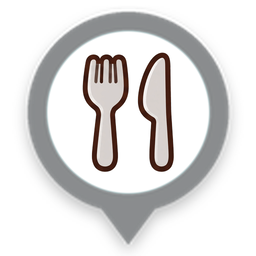
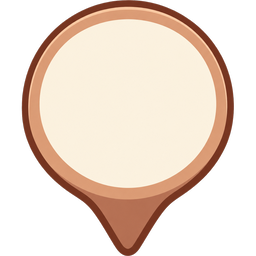
map: cluster tap flies there and zooms until it dissolves; 3 zoom stages (140px/70px/all from 17.7); new cluster pin art with centered number (owner)
Claude-Session: https://claude.ai/code/session_01Bp5TxBe5ASoz3kzH4S8qad

diff --git a/src/shops/infra/shopPins.ts b/src/shops/infra/shopPins.ts
@@ -1,9 +1,9 @@
 // 地図のピン（1 つの symbol レイヤー。MapLibre が GPU で描く）。2026-11-16 オーナー「整理して修正して」で 1 つにまとめた:
 //  - 1 軒のお店（晴れた所・霧の中の近い店）・まとめのピン（引いたとき）・気配のピン（？）を同じ層に入れ、
 //    画面の下（手前）のピンほど前に描く（奥の気配が手前に乗らない）。層は自分のキャラより上（キャラがピンを踏まない）。
-//  - 引き（倍率 17 未満）は、晴れた所のお店（ビル・施設の中のお店も 1 軒ずつ）を supercluster でまとめる（2 軒から・140px）。
-//    寄り（17 以上）は 1 軒ずつ（ビルの中のお店は buildingPins）。霧の中の近い店と気配はいつも単独。
-//  - まとめのピンを押すと、カメラは自分を追いかけたまま倍率 17 まで寄る（中心は動かさない＝引き戻されない）。
+//  - 倍率 17.7 より引いたら、晴れた所のお店（ビル・施設の中のお店も 1 軒ずつ）を supercluster でまとめる（2 軒から。
+//    16〜17 は 140px、17〜17.7 は 70px）。17.7 から 1 軒ずつ（ビルの中のお店は buildingPins）。霧の中の近い店と気配はいつも単独。
+//  - まとめのピンを押すと、その場所へカメラを寄せ、まとめがなくなる倍率（17.7）まで寄る（カメラの寄せは MapView）。
 // 画像の登録・GeoJSON source の更新・レイヤー追加・タップの当たり判定をここに閉じこめる。
 import type { GeoJSONSource, Map as MapLibreMap } from 'maplibre-gl'
 import type { LatLng } from '../../map/domain/geo.ts'
@@ -12,7 +12,7 @@ import type { PointFeature } from 'supercluster'
 import mysteryPin from '../../assets/pins/mystery.png'
 import { pinFeatures } from '../domain/pinFeatures.ts'
 import type { PinFeature } from '../domain/pinFeatures.ts'
-import { CLUSTER_MIN_POINTS, CLUSTER_RADIUS_PX, CLUSTER_UNTIL_ZOOM, clusterScale } from '../domain/cluster.ts'
+import { CLUSTER_MIN_POINTS, clusterScale, clusterStage } from '../domain/cluster.ts'
 import type { ClusterFeature } from '../domain/cluster.ts'
 import { createClusterImages } from './shopClusters.ts'
 import { LIFT_TIERS } from '../domain/pinLift.ts'
@@ -105,12 +105,14 @@ export function pinLayerFeatures(
   bounce: ReadonlyMap<string, number> = new Map(),
 ): Out[] {
   const out: Out[] = []
-  if (zoom < CLUSTER_UNTIL_ZOOM) {
-    // 引き: 晴れた所のお店をまとめる（ビルの中のお店も 1 軒ずつ入っている）。霧の中の近い店は単独
+  const stage = clusterStage(zoom)
+  if (stage) {
+    // 引き: 晴れた所のお店をまとめる（ビルの中のお店も 1 軒ずつ入っている）。霧の中の近い店は単独。
+    // まとめ方は段ごと（倍率 16 の段は 140px、17 の段は 70px）
     const index = new Supercluster<ClusterFeature['properties'], { n: number; done: number; lt: number }>({
-      radius: CLUSTER_RADIUS_PX,
+      radius: stage.radiusPx,
       extent: 512, // MapLibre の 512px のタイルと同じ（radius が画面の px になる）
-      maxZoom: CLUSTER_UNTIL_ZOOM - 1,
+      maxZoom: stage.zoom,
       minPoints: CLUSTER_MIN_POINTS,
       map: (p) => ({ n: p.n, done: p.done, lt: p.lt }),
       reduce: (acc, p) => {
@@ -120,7 +122,7 @@ export function pinLayerFeatures(
       },
     })
     index.load(clusterInput as unknown as PointFeature<ClusterFeature['properties']>[])
-    for (const f of index.getClusters([-180, -85, 180, 85], Math.max(0, Math.floor(Math.min(zoom, CLUSTER_UNTIL_ZOOM - 1))))) {
+    for (const f of index.getClusters([-180, -85, 180, 85], stage.zoom)) {
       const [lng, lat] = f.geometry.coordinates
       const p = f.properties as Record<string, unknown>
       if (p.cluster) out.push(point(lng, lat, { t: 'cluster', id: `cluster:${p.cluster_id}`, n: p.n, lt: p.lt }))
@@ -144,7 +146,8 @@ export function createShopPins(map: MapLibreMap) {
   let clusterInput: readonly ClusterFeature[] = []
   let hints: readonly HintPin[] = []
   const bounce = new Map<string, number>()
-  let far = map.getZoom() < CLUSTER_UNTIL_ZOOM
+  const stageKey = () => clusterStage(map.getZoom())?.zoom ?? 'all'
+  let shownStage = stageKey()
 
   const data = (): GeoJSON.FeatureCollection => ({
     type: 'FeatureCollection',
@@ -154,11 +157,11 @@ export function createShopPins(map: MapLibreMap) {
     if (attached) (map.getSource(PIN_SOURCE) as GeoJSONSource | undefined)?.setData(data())
   }
   const clusterImages = createClusterImages(map, push)
-  // 引き・寄りをまたいだときだけ作り直す（まとめの計算は倍率 16 の 1 段だけなので、またがなければ同じ）
+  // 段（16・17・全部）をまたいだときだけ作り直す（まとめは段ごとに 1 つの整数の倍率で計算するので、またがなければ同じ）
   const onZoom = () => {
-    const next = map.getZoom() < CLUSTER_UNTIL_ZOOM
-    if (next === far) return
-    far = next
+    const next = stageKey()
+    if (next === shownStage) return
+    shownStage = next
     push()
   }
 
@@ -251,7 +254,8 @@ export function createShopPins(map: MapLibreMap) {
       moving = next
       applyVisibility()
     },
-    // 押された点のピン: お店なら店の id、気配なら ['hint:<id>']、まとめならその場で倍率 17 まで寄って []
+    // 押された点のピン: お店なら店の id、気配なら ['hint:<id>']、まとめなら ['cluster:<経度>,<緯度>']
+    // （まとめの場所へのカメラの寄せは地図の画面がする。自分を追いかけるのを止めてから動かさないと引き戻されるため）
     pick(point: { x: number; y: number }): string[] | null {
       if (!attached || hidden) return null
       const box: [[number, number], [number, number]] = [[point.x - TAP_PAD_PX, point.y - TAP_PAD_PX], [point.x + TAP_PAD_PX, point.y + TAP_PAD_PX]]
@@ -260,9 +264,8 @@ export function createShopPins(map: MapLibreMap) {
       const p = hit.properties as Record<string, unknown>
       if (p.t === 'hint') return [`hint:${String(p.id)}`]
       if (p.t === 'cluster') {
-        // カメラは自分を追いかけたまま寄るだけ（中心を動かすと、次のコマで自分の位置へ引き戻される）
-        map.easeTo({ zoom: CLUSTER_UNTIL_ZOOM + 0.05, duration: 500 })
-        return []
+        const [lng, lat] = (hit.geometry as GeoJSON.Point).coordinates
+        return [`cluster:${lng},${lat}`]
       }
       return [String(p.id)]
     },

diff --git a/src/map/ui/MapView.tsx b/src/map/ui/MapView.tsx
@@ -27,6 +27,7 @@ import { createAvatarModel } from '../infra/avatarModel.ts'
 import type { Expression } from '../infra/avatarModel.ts'
 import { attachWorld } from './worldLayers.ts'
 import type { DailyHint } from '../../hints/domain/hint.ts'
+import { CLUSTER_UNTIL_ZOOM } from '../../shops/domain/cluster.ts'
 import type { Visits } from '../../checkin/domain/visits.ts'
 import '../../hints/ui/hints.css'
 import { nextBearing } from '../domain/rotate.ts'
@@ -109,6 +110,7 @@ export function MapView({ onStatus, home, onShopsError, onSelectShop, onSelectBu
   const checkinTimers = useRef(new Set<ReturnType<typeof setTimeout>>())
   // お店の板を開いている間は、カメラをそのお店に向けて、自分への追いかけを止める
   const focusRef = useRef<{ lat: number; lng: number } | null>(null)
+  const clusterFocusRef = useRef(false) // まとめのピンを押して寄せている（指で引いて 17.7 より引いたら自分に戻る）
   const unfocusRef = useRef<() => void>(() => {})
   const tapRef = useRef<(ids: string[] | null) => void>(() => {})
   const focusAtRef = useRef<(p: LatLng) => void>(() => {})
@@ -306,6 +308,14 @@ export function MapView({ onStatus, home, onShopsError, onSelectShop, onSelectBu
         onHintTapRef.current(hint)
         return
       }
+      // まとめのピンを押した: その場所へ寄せ、まとめがなくなる倍率まで寄る（自分を追いかけるのは止める。2026-11-16 オーナー「元の仕様」）
+      const cluster = ids?.[0]?.startsWith('cluster:') ? ids[0].slice(8).split(',').map(Number) : null
+      if (cluster && cluster.length === 2 && cluster.every(Number.isFinite)) {
+        focusRef.current = { lat: cluster[1], lng: cluster[0] }
+        clusterFocusRef.current = true
+        map.easeTo({ center: [cluster[0], cluster[1]], zoom: Math.min(CLUSTER_UNTIL_ZOOM + 0.05, MAX_ZOOM), duration: 600 })
+        return
+      }
       const found = (ids ?? []).map((id) => s.world?.shopsNear().find((sh) => sh.id === id)).filter((sh): sh is Shop => !!sh)
       // 建物でもピンでもない所（道路など）を押したときは何もしない。押しまちがいでシートが閉じたり、
       // カメラが自分に戻ったりしないように（2026-11-09 本人）。閉じるのはシートの × で
@@ -321,6 +331,7 @@ export function MapView({ onStatus, home, onShopsError, onSelectShop, onSelectBu
       if (at) {
         const zoom = focusRef.current ? map.getZoom() : Math.min(map.getZoom() + TAP_ZOOM_STEP, MAX_ZOOM)
         focusRef.current = { lat: at.lat, lng: at.lng }
+        clusterFocusRef.current = false // お店のシートを閉じたら自分に戻る（今までどおり）
         s.world?.focus(found.map((sh) => sh.id)) // 選んだ建物は遠くても詳しい模型に
         map.easeTo({ center: [at.lng, at.lat], zoom, duration: 500 })
       }
@@ -335,10 +346,16 @@ export function MapView({ onStatus, home, onShopsError, onSelectShop, onSelectBu
     unfocusRef.current = () => {
       if (!focusRef.current) return
       focusRef.current = null
+      clusterFocusRef.current = false
       s.shown = null
       s.world?.focus(null)
       if (s.current) map.easeTo({ center: [s.current.lng, s.current.lat], duration: 500 })
     }
+    // まとめのピンで寄せたあと、指で引いて 17.7 より引いたら、自分を追いかけるのに戻る
+    const onZoomEndCluster = () => {
+      if (clusterFocusRef.current && map.getZoom() < CLUSTER_UNTIL_ZOOM) unfocusRef.current()
+    }
+    map.on('zoomend', onZoomEndCluster)
     // 毎コマ、表示位置を目標へ寄せてカメラを動かす
     const loop = { frame: 0, prevTime: performance.now(), positionAt: 0 }
     const tick = (now: number) => {
@@ -404,6 +421,7 @@ export function MapView({ onStatus, home, onShopsError, onSelectShop, onSelectBu
       avatarModelRef.current = null
       s.world?.dispose()
       mapRef.current = null
+      map.off('zoomend', onZoomEndCluster)
       map.remove()
     }
   }, [home])

diff --git a/src/shops/infra/shopClusters.ts b/src/shops/infra/shopClusters.ts
@@ -8,52 +8,29 @@ import { BADGE_TEXT_FIT, BADGE_WIDEST_TEXT, badgeText } from '../domain/cluster.
 const FONT = '"M PLUS Rounded 1c"'
 const INK = '#4a2f18'
 
-// まとめのピンの絵（256px の台＋右上の丸い札）。pixelRatio 2 で使う。
-// 札: インクの縁＋右下の平らな影（アプリのボタンと同じ）、橙の地、内側に白い輪。数字は白にインクの縁。
-// 字の大きさは桁によらず同じ（「99+」が収まる大きさ）。字の実際の高さを測って、丸のちょうど真ん中に置く
+// まとめのピンの絵（オーナーの台の絵 art/pins/cluster-frame.png → cluster-base.png 256px。2026-11-16「数字を真ん中、料理アイコンは消す」）。
+// クリーム色の丸のちょうど真ん中に、こげ茶の太い数字。字の大きさは桁によらず同じ（「99+」が丸に収まる大きさ）。pixelRatio 2 で使う
+const CIRCLE = { x: 127.8, y: 103.5, r: 84 } // 丸の真ん中と半径（art/prototypes/cluster-base.py で測った値）
 export function drawCluster(base: CanvasImageSource, n: number): ImageData {
-  const W = 360, H = 330, PIN = 256
+  const S = 256
   const cv = document.createElement('canvas')
-  cv.width = W
-  cv.height = H
+  cv.width = S
+  cv.height = S
   const c = cv.getContext('2d')!
-  const px = (W - PIN) / 2, py = H - PIN // ピンの先が絵の下の真ん中
-  c.drawImage(base, px, py, PIN, PIN)
-  const D = 104, r = D / 2
-  const cx = px + PIN - 30, cy = py + 14 // 札の真ん中（ピンの右上にかかる）
-  const circle = (x: number, y: number, rr: number) => {
-    c.beginPath()
-    c.arc(x, y, rr, 0, Math.PI * 2)
-  }
-  c.fillStyle = INK
-  circle(cx + 5, cy + 6, r + 5) // 平らな影
-  c.fill()
-  circle(cx, cy, r + 5) // インクの縁
-  c.fill()
-  c.fillStyle = '#ffffff'
-  circle(cx, cy, r + 1) // 白い輪
-  c.fill()
-  c.fillStyle = '#ff7a3d'
-  circle(cx, cy, r - 5) // 橙の地
-  c.fill()
-  // 字の大きさ: 「99+」の幅が丸の BADGE_TEXT_FIT に収まる大きさ（全部の数で同じ）
+  c.drawImage(base, 0, 0, S, S)
+  // 字の大きさ: 「99+」の幅が丸の直径の BADGE_TEXT_FIT に収まる大きさ（全部の数で同じ）
   c.font = `800 100px ${FONT}`
-  const px100 = (100 * D * BADGE_TEXT_FIT) / c.measureText(BADGE_WIDEST_TEXT).width
-  const size = Math.min(56, Math.floor(px100))
+  const size = Math.min(110, Math.floor((100 * 2 * CIRCLE.r * BADGE_TEXT_FIT) / c.measureText(BADGE_WIDEST_TEXT).width))
   c.font = `800 ${size}px ${FONT}`
   const text = badgeText(n)
   const m = c.measureText(text)
-  const x = cx - (m.actualBoundingBoxRight - m.actualBoundingBoxLeft) / 2 // 左端 x−L・右端 x＋R の真ん中を cx に
-  const y = cy + (m.actualBoundingBoxAscent - m.actualBoundingBoxDescent) / 2
+  const x = CIRCLE.x - (m.actualBoundingBoxRight - m.actualBoundingBoxLeft) / 2 // 左端 x−L・右端 x＋R の真ん中を丸の真ん中に
+  const y = CIRCLE.y + (m.actualBoundingBoxAscent - m.actualBoundingBoxDescent) / 2
   c.textAlign = 'left'
   c.textBaseline = 'alphabetic'
-  c.lineJoin = 'round'
-  c.lineWidth = 7
-  c.strokeStyle = INK
-  c.strokeText(text, x, y)
-  c.fillStyle = '#ffffff'
+  c.fillStyle = INK
   c.fillText(text, x, y)
-  return c.getImageData(0, 0, W, H)
+  return c.getImageData(0, 0, S, S)
 }
 
 // 足りない cl-<数> の絵を描いて足す。台の絵と丸い字が読めるまでの分は覚えておき、読めたら描いて onReady を呼ぶ

diff --git a/src/shops/domain/cluster.ts b/src/shops/domain/cluster.ts
@@ -5,10 +5,21 @@ import type { ShopKind } from './shop.ts'
 
 // 気配のお店（正体を伏せている）と霧の中の近いお店は数に入れない（気配は「？」のピンで単独に出す）。
 
-// 段は 2 つ（2026-11-16 オーナー承認 docs/superpowers/specs/2026-11-16-map-pins-by-zoom-design.md）:
-// 寄り（17 以上）は全部のピン・ビルの並べたピン・施設の「6/6」。引き（16〜17）はお店をぜんぶまとめ、施設は名前の札だけ
-export const CLUSTER_UNTIL_ZOOM = 17
-export const CLUSTER_RADIUS_PX = 140 // 画面でこの近さまでのピンをまとめる（かなり離れていない限りまとめる。2026-11-13 オーナー「3以上はかなり離れてない限りまとめよう」）。2 軒以下はまとめない（CLUSTER_MIN_POINTS）
+// 段は 3 つ（2026-11-16 オーナー「zoom してもまだ多すぎる、段階いる？」。設計 docs/superpowers/specs/2026-11-16-map-pins-by-zoom-design.md）:
+//  倍率 16〜17: 大きくまとめる（140px）／17〜17.7: 小さくまとめる（70px）／17.7 から: 全部のピン・ビルの並べたピン・施設の「6/6」。
+//  まとめている間、施設は名前の札だけ
+export const CLUSTER_UNTIL_ZOOM = 17.7
+export const CLUSTER_STAGES = [
+  { zoom: 16, radiusPx: 140 },
+  { zoom: 17, radiusPx: 70 },
+] as const
+// 今の倍率でのまとめ方（まとめない倍率なら null）。zoom: まとめを計算する整数の倍率
+export function clusterStage(zoom: number): { zoom: number; radiusPx: number } | null {
+  if (zoom >= CLUSTER_UNTIL_ZOOM) return null
+  let stage: { zoom: number; radiusPx: number } = CLUSTER_STAGES[0]
+  for (const st of CLUSTER_STAGES) if (zoom >= st.zoom) stage = st
+  return { zoom: stage.zoom, radiusPx: stage.radiusPx }
+}
 export const CLUSTER_MIN_POINTS = 2 // 近くのピンは 2 軒からまとめる（最初の仕様。3 軒以上にしたら大きなまとめの横にピンが残って見づらかった＝2026-11-16 オーナー）
 
 // 札の数字。100 以上は「99+」
@@ -16,7 +27,7 @@ export const badgeText = (n: number): string => (n > 99 ? '99+' : String(n))
 
 // 札の字の大きさは桁によらず同じ（2026-11-13 オーナー）。いちばん長い「99+」が丸の中に収まる大きさにそろえる
 export const BADGE_WIDEST_TEXT = '99+'
-export const BADGE_TEXT_FIT = 0.74 // 丸の直径に対して、いちばん長い字の幅をここまでにする
+export const BADGE_TEXT_FIT = 0.86 // 丸の直径に対して、いちばん長い字（99+）の幅をここまでにする（2026-11-16 数字を大きく）
 
 // まとめた数でピンの大きさを 3 段に（2〜9・10〜29・30 以上）
 export const clusterScale = (n: number): number => (n >= 30 ? 1.25 : n >= 10 ? 1.12 : 1)

diff --git a/src/shops/domain/cluster.test.ts b/src/shops/domain/cluster.test.ts
@@ -1,5 +1,5 @@
 import { describe, expect, it } from 'vitest'
-import { BADGE_TEXT_FIT, BADGE_WIDEST_TEXT, badgeText, clusterFeatures, clusterScale, CLUSTER_MIN_POINTS, CLUSTER_UNTIL_ZOOM } from './cluster.ts'
+import { BADGE_TEXT_FIT, BADGE_WIDEST_TEXT, badgeText, clusterFeatures, clusterScale, clusterStage, CLUSTER_MIN_POINTS, CLUSTER_UNTIL_ZOOM } from './cluster.ts'
 
 describe('badgeText', () => {
   it('99 までは数字、100 以上は 99+', () => {
@@ -13,7 +13,7 @@ describe('badgeText', () => {
 describe('札の字', () => {
   it('いちばん長い字は 99+（字の大きさはこれが丸に収まる大きさでそろえる）', () => {
     expect(badgeText(1000)).toBe(BADGE_WIDEST_TEXT)
-    expect(BADGE_TEXT_FIT).toBeLessThan(0.8)
+    expect(BADGE_TEXT_FIT).toBeLessThan(0.9)
   })
 })
 
@@ -46,8 +46,11 @@ describe('clusterFeatures', () => {
     const f = clusterFeatures([single('a', 'ramen', 14), single('b', 'cafe', 8)], [bld('c', [shop('x')], 20)], new Set(), new Set(), new Set())
     expect(f.map((x) => [x.properties.liftTier, x.properties.lt])).toEqual([['high', 2], ['low', 0], ['high', 2]])
   })
-  it('段は 2 つ: 17 から全部のピン、それより引いたらまとめる。2 軒からまとめる', () => {
-    expect(CLUSTER_UNTIL_ZOOM).toBe(17)
+  it('段は 3 つ: 16〜17 は大きく（140px）、17〜17.7 は小さく（70px）まとめ、17.7 から全部のピン。2 軒からまとめる', () => {
+    expect(clusterStage(16.4)).toEqual({ zoom: 16, radiusPx: 140 })
+    expect(clusterStage(17.3)).toEqual({ zoom: 17, radiusPx: 70 })
+    expect(clusterStage(CLUSTER_UNTIL_ZOOM)).toBeNull()
+    expect(CLUSTER_UNTIL_ZOOM).toBe(17.7)
     expect(CLUSTER_MIN_POINTS).toBe(2)
   })
 })

diff --git a/art/prototypes/cluster-base.py b/art/prototypes/cluster-base.py
@@ -1,0 +1,27 @@
+# まとめのピンの台（オーナーの絵 art/pins/cluster-frame.png、2026-11-16）を、透明な余白を切って
+# ピンの先が絵の下の真ん中に来る正方形にし、256px で src/assets/pins/cluster-base.png に出す。数字を入れる丸の真ん中と半径も測って出す。
+# 使い方: PY=/home/otosa/tools/blender/blender-4.2.3-linux-x64/4.2/python/bin/python3.11; $PY art/prototypes/cluster-base.py
+import subprocess
+import numpy as np
+
+SRC = 'art/pins/cluster-frame.png'
+DST = 'src/assets/pins/cluster-base.png'
+OUT = 256
+
+w, h = map(int, subprocess.check_output(['ffprobe', '-v', 'error', '-select_streams', 'v:0', '-show_entries', 'stream=width,height', '-of', 'csv=p=0', SRC]).decode().strip().split(','))
+img = np.frombuffer(subprocess.check_output(['ffmpeg', '-v', 'error', '-i', SRC, '-f', 'rawvideo', '-pix_fmt', 'rgba', '-']), np.uint8).reshape(h, w, 4)
+ys, xs = np.where(img[:, :, 3] > 16)
+x0, x1, y0, y1 = xs.min(), xs.max() + 1, ys.min(), ys.max() + 1
+crop = img[y0:y1, x0:x1]
+ch, cw = crop.shape[:2]
+side = max(ch, cw)
+sq = np.zeros((side, side, 4), np.uint8)
+ox = (side - cw) // 2
+sq[side - ch:, ox:ox + cw] = crop  # 下にそろえる（ピンの先が下の真ん中）
+subprocess.run(['ffmpeg', '-v', 'error', '-y', '-f', 'rawvideo', '-pix_fmt', 'rgba', '-s', f'{side}x{side}', '-i', '-', '-vf', f'scale={OUT}:{OUT}:flags=lanczos', DST], input=sq.tobytes(), check=True)
+# クリーム色の丸（数字を入れる所）
+rgb = sq[:, :, :3].astype(int)
+cream = (rgb[:, :, 0] > 235) & (rgb[:, :, 1] > 225) & (rgb[:, :, 2] > 200) & (sq[:, :, 3] > 200)
+cy_, cx_ = np.where(cream)
+k = OUT / side
+print('circle center', round((cx_.min() + cx_.max()) / 2 * k, 1), round((cy_.min() + cy_.max()) / 2 * k, 1), 'radius', round((cx_.max() - cx_.min()) / 2 * k, 1), round((cy_.max() - cy_.min()) / 2 * k, 1))

diff --git a/docs/superpowers/specs/2026-11-16-map-pins-by-zoom-design.md b/docs/superpowers/specs/2026-11-16-map-pins-by-zoom-design.md
@@ -45,3 +45,8 @@
 - まとめのピンを押すと、**カメラの中心は動かさず**倍率 17 まで寄る（カメラは自分を追いかけているので、中心を動かすと次のコマで引き戻されていた）。
 - 気配の「ぽんと弾む」は、気配のピンの大きさを 0.4 秒だけ 1→1.35→1 にする。正体が分かった印「!」は絵に描き込む（`revealBadgeImage`）。
 - ビルの並べたピン・施設の名前の札は今までどおり HTML のパーツ（寄ったときのビルのピンは、まだ地図の絵のピンより手前に出る）。
+
+## 2026-11-16 夕 追加（オーナー「まとまりピンを押したらその位置に行ってまとまりなしまで zoom が元の仕様」「zoom してもまだ多すぎる、段階いる？」「数字を真ん中、料理アイコンは消す、黄色の強調はいらない」）
+- 段は 3 つ: 倍率 16〜17 は 140px でまとめ、17〜17.7 は 70px でまとめ、17.7 から全部のピン（ビルの並べたピン・施設の「6/6」も 17.7 から）。`clusterStage`（`src/shops/domain/cluster.ts`）。
+- まとめのピンを押すと、その場所へカメラを寄せ、17.75 まで寄る。カメラは自分を追いかけるのを止めてその場にとどまり、お店のシートを閉じたとき・指で引いて 17.7 より引いたときに自分へ戻る（`MapView` の `clusterFocusRef`）。
+- まとめのピンの絵はオーナーの台の絵（`art/pins/cluster-frame.png` → `src/assets/pins/cluster-base.png`、台本 `art/prototypes/cluster-base.py`）。クリーム色の丸のちょうど真ん中に、こげ茶の太い数字（桁によらず同じ大きさ・99+ が収まる）。フォークとナイフと札はやめた。
